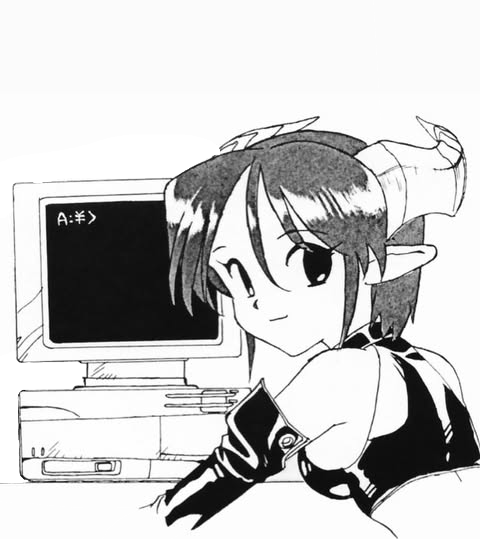
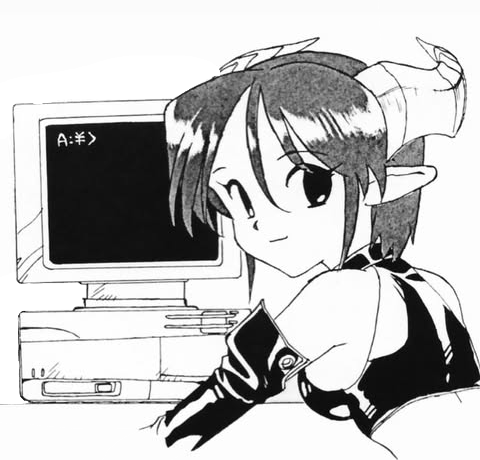
change: minor changes

diff --git a/_layouts/touhou.html b/_layouts/touhou.html
@@ -13,43 +13,42 @@ layout: default
          style="height: 600px; overflow-y: scroll">
         {% assign touhou_entries = site.entries | where: "category", "touhou_chars" | sort: "title" %}
         {% for entry in touhou_entries %}
-            <fieldset class="shrine-field">
-                <legend>{{ entry.title }}</legend>
-                <div class="field-row">
-                    <div style="min-width: 220px; max-width: 220px; text-align: center">
-                        {% assign img_path = entry.url | split: "/" | last | split: "." %}
-                        <img src="{{ '/assets/imgs/touhou/' | append: img_path[0] | append: '.png' | relative_url }}"
-                             alt="">
-                    </div>
-                    <p>
-                        {{ entry.content }}
-                    </p>
+        <fieldset class="shrine-field">
+            <legend>{{ entry.title }}</legend>
+            <div class="field-row">
+                <div style="min-width: 220px; max-width: 220px; text-align: center">
+                    {% assign img_path = entry.url | split: "/" | last | split: "." %}
+                    <img src="{{ '/assets/imgs/touhou/' | append: img_path[0] | append: '.png' | relative_url }}"
+                         alt="">
                 </div>
-            </fieldset>
+                <p>
+                    {{ entry.content }}
+                </p>
+            </div>
+        </fieldset>
         {% endfor %}
-
     </div>
     <div id="fumo" class="window-body tabpanel" role="tabpanel" aria-hidden="true"
-         style="height: 600px; overflow-y: scroll">
-        <fieldset class="shrine-field" style="width: 196px">
-            <legend>Cirnu</legend>
+         style="height: 600px; overflow-y: scroll;">
+        <fieldset class="shrine-field">
+            <legend>Cirno</legend>
             <div class="field-row">
                 <img src="{{ "/assets/imgs/touhou/cirno_fumo.jpg" | relative_url }}" alt="">
             </div>
         </fieldset>
-        <fieldset class="shrine-field" style="width: 196px">
+        <fieldset class="shrine-field">
             <legend>Udonge</legend>
             <div class="field-row">
                 <img src="{{ "/assets/imgs/touhou/reisen_fumo.jpg" | relative_url }}" alt="">
             </div>
         </fieldset>
-        <fieldset class="shrine-field" style="width: 196px">
+        <fieldset class="shrine-field">
             <legend>Patche</legend>
             <div class="field-row">
                 <img src="{{ "/assets/imgs/touhou/patchouli_fumo.jpg" | relative_url }}" alt="">
             </div>
         </fieldset>
-        <fieldset class="shrine-field" style="width: 196px">
+        <fieldset class="shrine-field">
             <legend>Yukari</legend>
             <div class="field-row">
                 <img src="{{ "/assets/imgs/touhou/yukari_fumo.jpg" | relative_url }}" alt="">

diff --git a/_includes/header.html b/_includes/header.html
@@ -71,7 +71,7 @@
                     <input type="text" name="entry.1722423759" id="name" required style="width: 100%">
                     <br>
                     <label for="message" style="margin-top: 10px">Nachricht:</label><br>
-                    <textarea name="entry.677063233" id="message" required style="width: 100%; max-width: 275px; height: 100px; max-height: 140px"></textarea>
+                    <textarea name="entry.677063233" id="message" required style="width: 100%; height: 50px; resize: none"></textarea>
                     <input type="hidden" name="date" value="{{ 'now' | date: '%Y-%m-%dT%H:%M:%S%z' }}">
                     <br>
                     <button type="submit" style="margin-top: 10px">Eintrag hinzufügen</button>
@@ -79,12 +79,12 @@
                 <iframe name="hidden_iframe" id="hidden_iframe" style="display:none;"></iframe>
             </div>
             <div class="field-row" style="width: 276px">
-                <div id="entries" style="max-height: 100px; overflow-y: scroll"></div>
+                <div id="entries" style="height: 100px; max-height: 100px; overflow-y: scroll"></div>
             </div>
         </fieldset>
 
         <img src="{{ '/assets/imgs/demon_girl_computer.png' | relative_url }}" alt=""
-             style="position: absolute; bottom: 0; left: 0; margin-left: -7px; width: 250px; transform: scaleX(-1);">
+             style="position: absolute; bottom: 0; left: 0; width: 200px; transform: scaleX(-1);">
     </div>
 
     <script>

diff --git a/index.md b/index.md
@@ -5,6 +5,8 @@ title: Index
 
 <div style="text-align: center">
     <img src="{{ "/assets/buttons/ban2.gif" | relative_url }}" alt="">
+    <img src="{{ "/assets/buttons/higubanner.jpg" | relative_url }}" alt="">
+    <img src="{{ "/assets/buttons/wired.gif" | relative_url }}" alt="">
 </div>
 
 <div class="sunken-panel" style="width: 200px; height: 200px; overflow: hidden">
